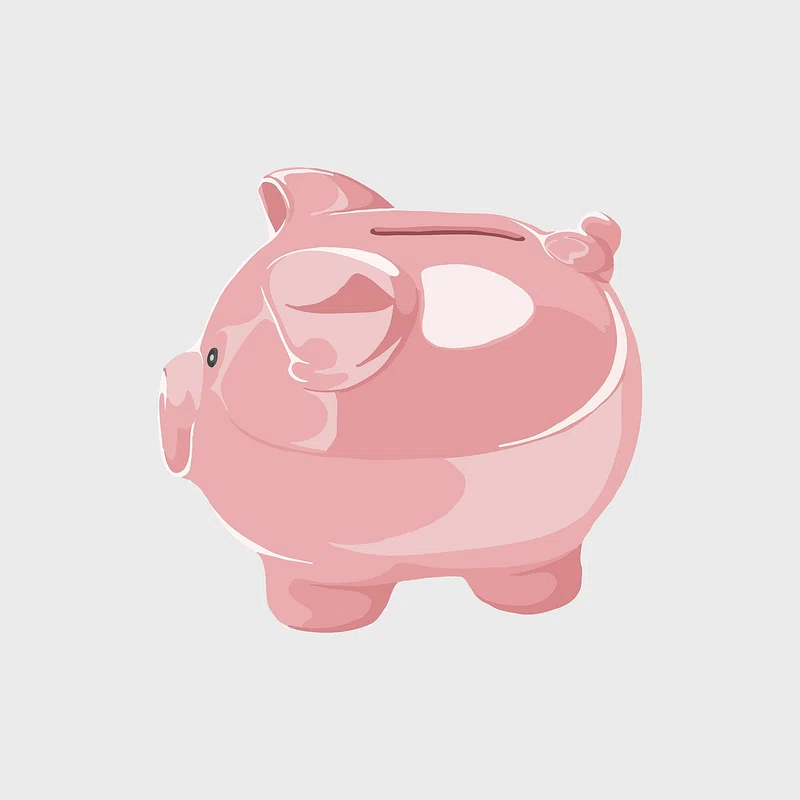
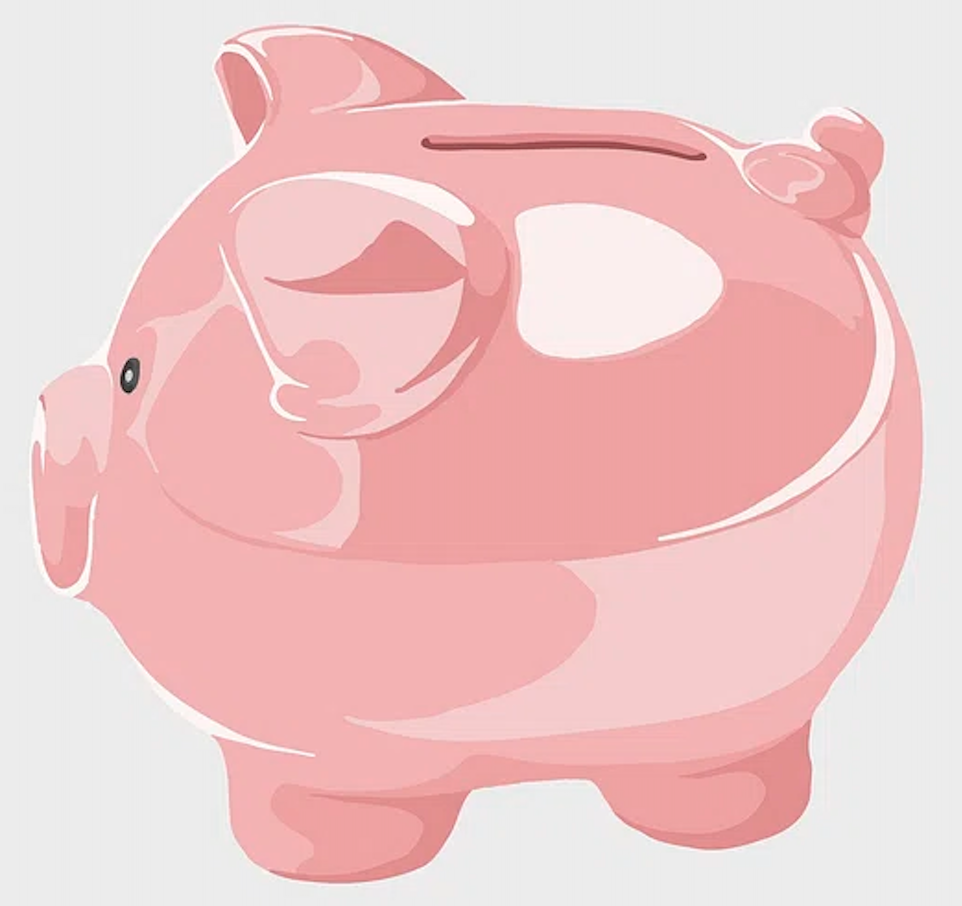
animation sort of works

diff --git a/src/App.css b/src/App.css
@@ -2,52 +2,44 @@
   text-align: center;
 }
 
-.App-logo {
-  height: 40vmin;
-  pointer-events: none;
-}
-
-@media (prefers-reduced-motion: no-preference) {
-  .App-logo {
-    animation: App-logo-spin infinite 20s linear;
-  }
-}
-
-.App-header {
-  background-color: #282c34;
-  min-height: 100vh;
-  display: flex;
-  flex-direction: column;
-  align-items: center;
-  justify-content: center;
-  font-size: calc(10px + 2vmin);
-  color: white;
-}
-
-.App-link {
-  color: #61dafb;
-}
-
-@keyframes App-logo-spin {
-  from {
-    transform: rotate(0deg);
-  }
-  to {
-    transform: rotate(360deg);
-  }
-}
-
-.body {
+body {
   background-color: #ececeb;
   font-family: "Courier New", Courier, monospace;
   font-size: large;
   color: black;
+  margin-top: -10px;
 }
 
-.coin-container {
+button {
+  background-color: palevioletred; /* pink button background color */
+  color: black; /* black text on buttons */
+  font-size: 18px;
+  border: none;
+  padding: 10px 20px;
+  margin: 10px;
+  cursor: pointer;
+  transition: background-color 0.3s;
+  font-family: "Courier New", Courier, monospace;
+  font-size: large;
+}
+
+button:hover {
+  background-color: pink; /* Lighter pink on hover */
+}
+
+.piggy {
+  width: 500px;
+  height: 500px;
+}
+.piggy-container {
   display: flex;
-  justify-content: space-around;
-  margin-top: 20px;
+  justify-content: center;
+  align-items: center;
+  margin-top: -170px;
+}
+
+h1 {
+  margin-top: 10px;
 }
 
 .coin {
@@ -62,46 +54,51 @@
   font-weight: bold;
   color: #333; /* Dark text on coins */
   margin: 10px;
-  transition: all 0.3s ease-in-out;
-}
-
-.deposit {
-  transform: scale(1.2); /* Grow the coin when depositing */
-  background-color: #a1f390; /* Green color when depositing */
-}
-
-.withdraw {
-  transform: scale(0.8); /* Shrink the coin when withdrawing */
-  background-color: #f18d92; /* Red color when withdrawing */
+  transition: all 0.2s ease-in-out;
+  animation: none; /* Disable animation by default */
 }
 
 .coin-container {
-  position: relative;
-  top: 50%; /* Adjust the top position to center the coin vertically */
-  left: 50%; /* Adjust the left position to center the coin horizontally */
-  transform: translate(-50%, -50%);
+  display: flex;
+  justify-content: center; /* Center coins horizontally */
+  align-items: center; /* Center coins vertically */
+  margin-top: 115px;
 }
 
-.center {
-  display: block;
-  margin-left: auto;
-  margin-right: auto;
-  width: 50%;
-  width: 500px; /* Adjust the size as needed */
-  height: 500px; /* Adjust the size as needed */
+.deposit {
+  background-color: #a1f390; /* Green color when depositing */
+  animation: slide-in 1s forwards;
 }
 
-button {
-  background-color: palevioletred; /* pink button background color */
-  color: black; /* black text on buttons */
-  font-size: 18px;
-  border: none;
-  padding: 10px 20px;
-  margin: 10px;
-  cursor: pointer;
-  transition: background-color 0.3s;
+.withdraw {
+  background-color: #f18d92; /* Red color when withdrawing */
+  animation: slide-out 1s forwards;
 }
 
-button:hover {
-  background-color: pink; /* Lighter pink on hover */
+@keyframes slide-in {
+  0% {
+    transform: translateY(-100px);
+    opacity: 1; /* Start fully visible */
+  }
+  80% {
+    opacity: 1; /* Keep fully visible for 80% of the animation */
+  }
+  100% {
+    transform: translateY(0);
+    opacity: 0; /* End completely transparent */
+  }
+}
+
+@keyframes slide-out {
+  0% {
+    transform: translateY(0); /* Start from inside the piggy bank */
+    opacity: 1; /* Start fully visible */
+  }
+  80% {
+    opacity: 1; /* Keep fully visible for 80% of the animation */
+  }
+  100% {
+    transform: translateY(-100px); /* Slide out of the piggy bank */
+    opacity: 0; /* End completely transparent */
+  }
 }

diff --git a/src/components/PiggyBank.js b/src/components/PiggyBank.js
@@ -1,24 +1,27 @@
 import React, { useState } from "react";
-import Coin from "./Coin";
 
 function PiggyBank() {
   const [balance, setBalance] = useState(0);
   const [isDepositing, setIsDepositing] = useState(false);
   const [isWithdrawing, setIsWithdrawing] = useState(false);
+  const [isCoinInside, setIsCoinInside] = useState(true);
+  const savingsGoal = 100;
+  const percentageToGoal = (balance / savingsGoal) * 100;
 
   // deposit $
   const deposit = (amount) => {
     setIsDepositing(true);
+    setIsCoinInside(true); // Coin is inside when depositing
     setTimeout(() => {
       setBalance(balance + amount);
       setIsDepositing(false);
-    }, 500); // Adjust the timing to match your animation duration
+    }, 500);
   };
 
-  // withdraw $
   const withdraw = (amount) => {
     if (balance >= amount) {
       setIsWithdrawing(true);
+      setIsCoinInside(false); // Coin is outside when withdrawing
       setTimeout(() => {
         setBalance(balance - amount);
         setIsWithdrawing(false);
@@ -29,17 +32,51 @@ function PiggyBank() {
   };
 
   // display piggy bank image and deposit/withdraw buttons
+  // show current balance, savings goal, and percentage to reach savings goal
   return (
     <div className="body">
       <h1>Piggy Pay</h1>
-      <img src="pig.png" alt="Pig" class="center"></img>
-      <div className="coin-container">
-        <Coin isDepositing={isDepositing} />
-        <Coin isDepositing={isWithdrawing} />
+      <div>
+        <p>Balance: ${balance.toFixed(2)}</p>
+        <p>Savings Goal: ${savingsGoal.toFixed(2)}</p>
+        <p>Percentage to Savings Goal: {percentageToGoal.toFixed(0)}%</p>
       </div>
-      <p>Balance: ${balance.toFixed(2)}</p>
-      <button onClick={() => deposit(10)}>Deposit $10</button>
-      <button onClick={() => withdraw(10)}>Withdraw $10</button>
+      <div className="coin-container">
+        {isCoinInside ? (
+          <div className={`coin deposit`}>${isDepositing}</div>
+        ) : (
+          <div className={`coin withdraw`}>${isWithdrawing}</div>
+        )}
+      </div>
+      <div className="piggy-container">
+        <img src="pig.png" alt="Pig" className="piggy"></img>
+      </div>
+      <div>
+        <input
+          type="number"
+          placeholder="Enter deposit amount"
+          value={isDepositing}
+          onChange={(e) => setIsDepositing(e.target.value)}
+        />
+        <br></br>
+        <button onClick={() => deposit(parseFloat(isDepositing))}>
+          Deposit
+        </button>
+      </div>
+      <br></br>
+
+      <div>
+        <input
+          type="number"
+          placeholder="Enter withdrawal amount"
+          value={isWithdrawing}
+          onChange={(e) => setIsWithdrawing(e.target.value)}
+        />
+        <br></br>
+        <button onClick={() => withdraw(parseFloat(isWithdrawing))}>
+          Withdraw
+        </button>
+      </div>
     </div>
   );
 }
